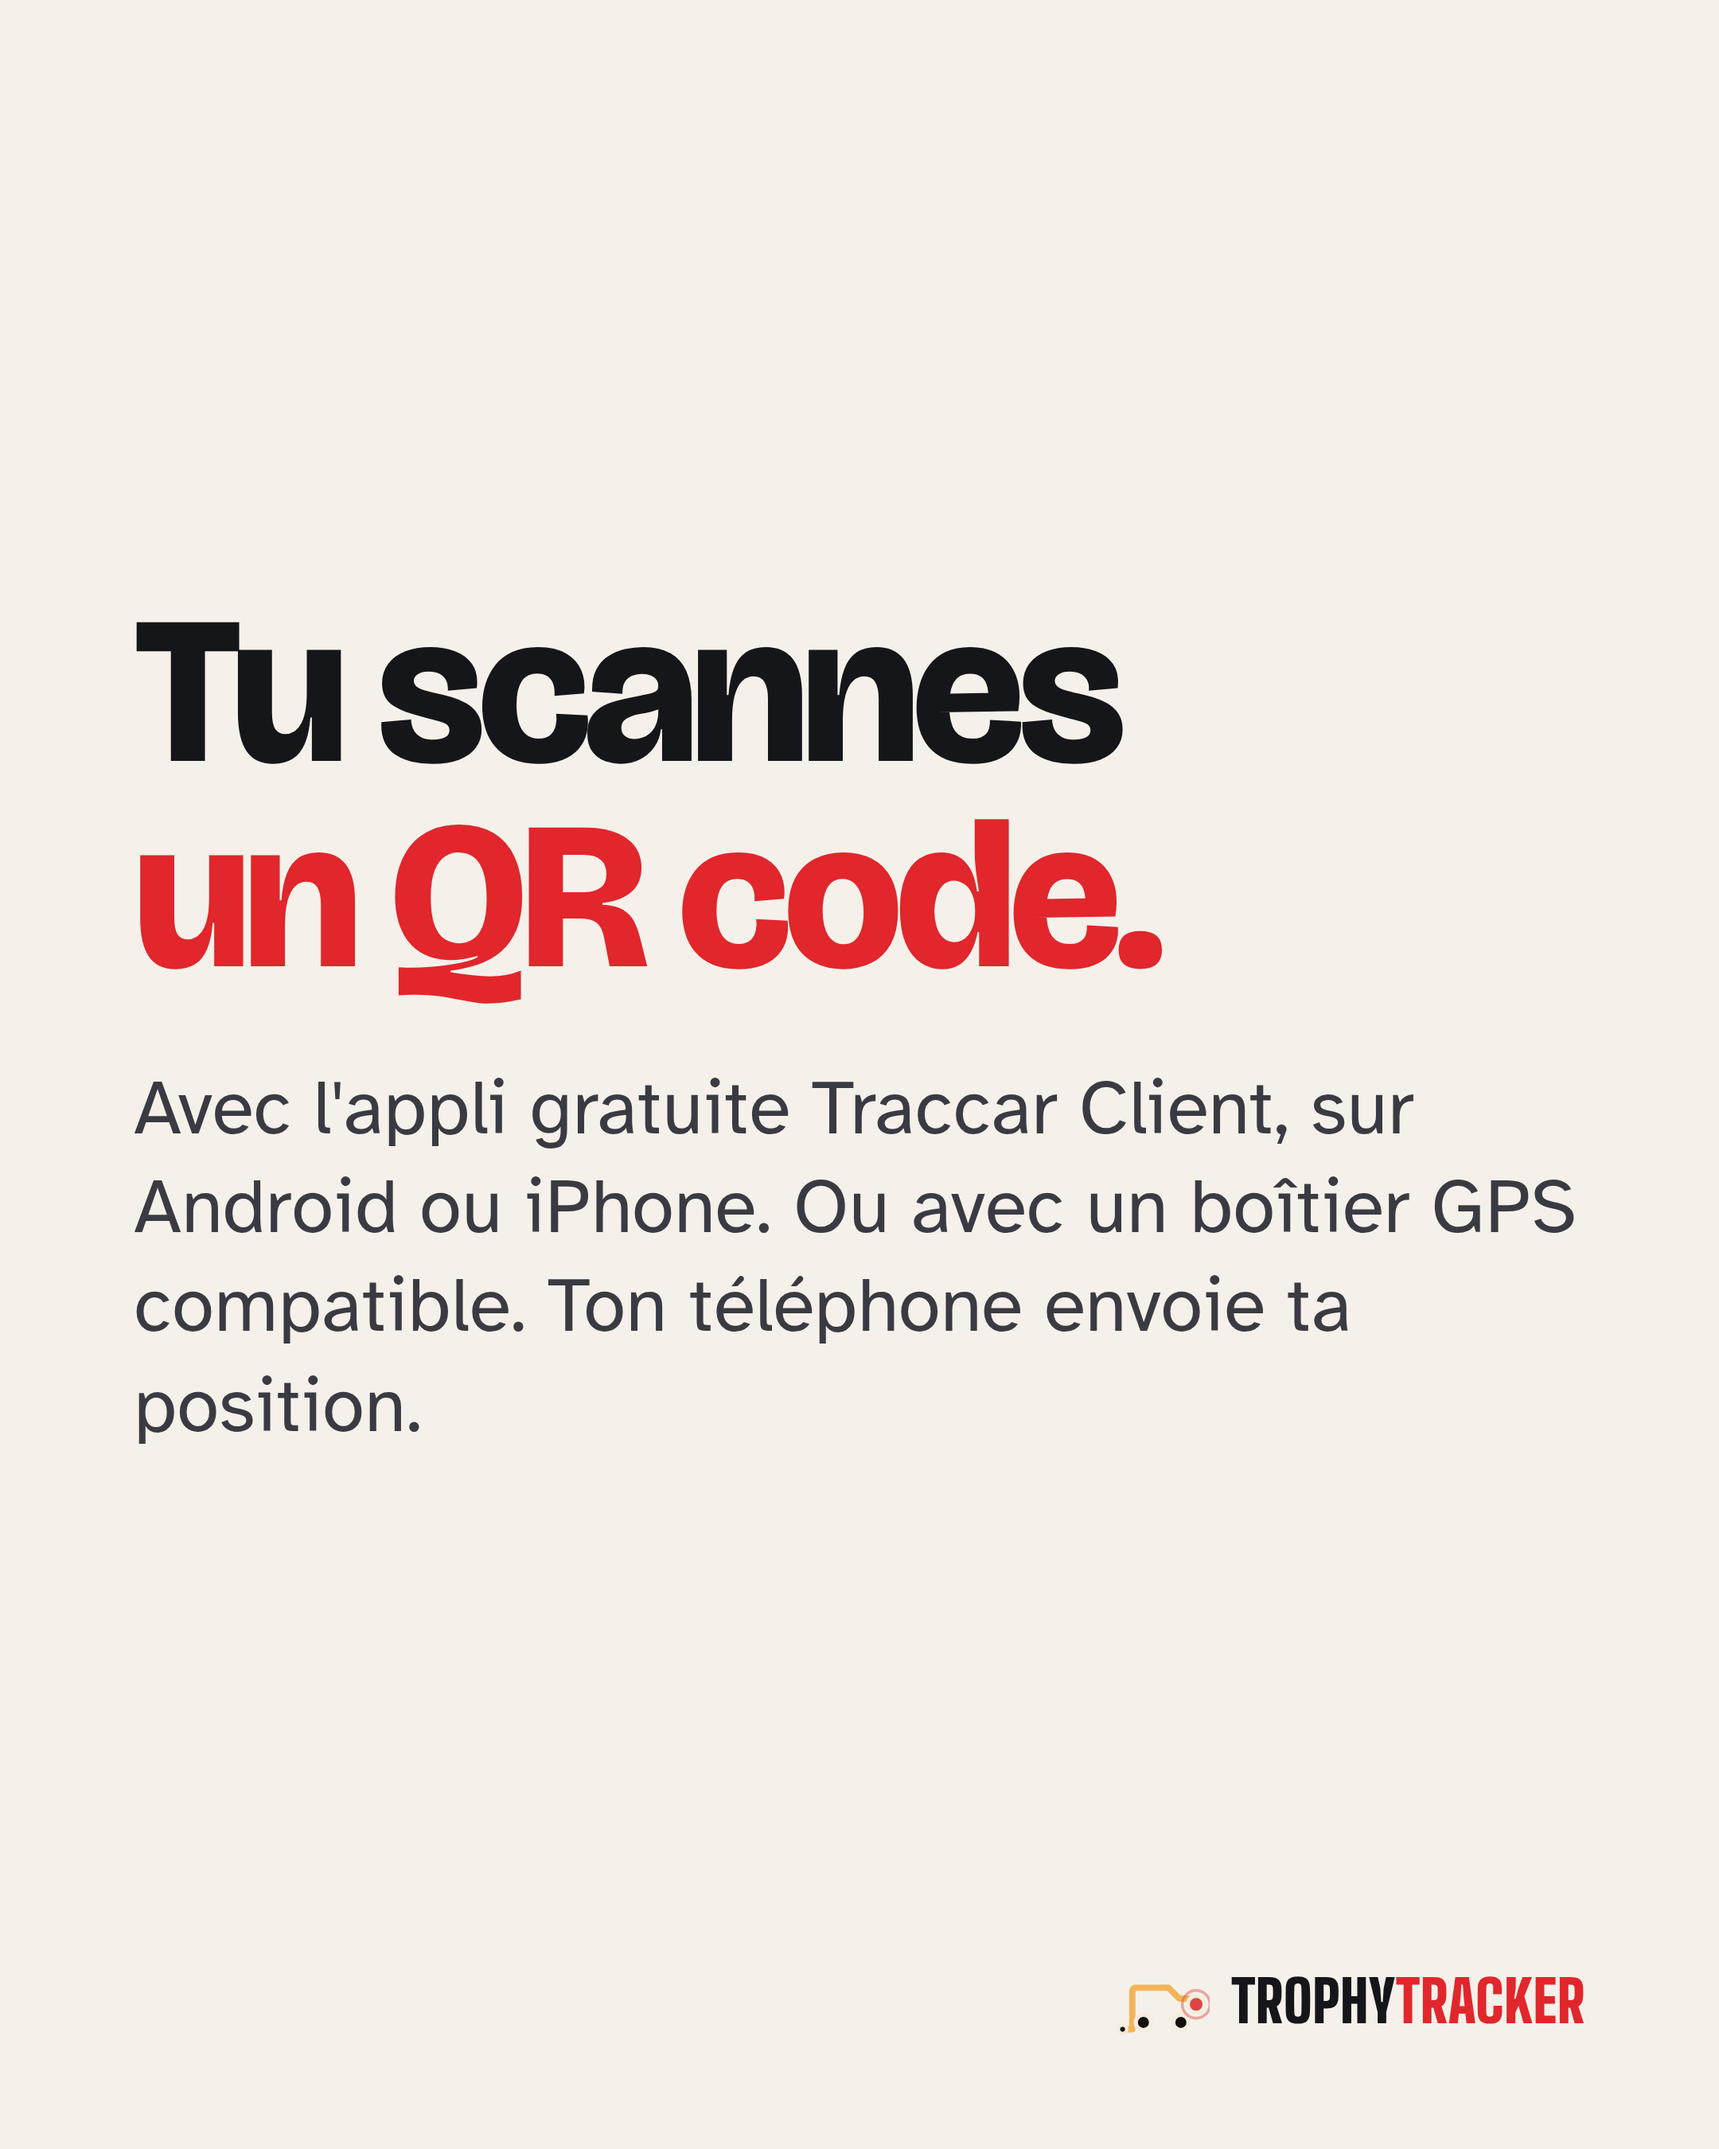
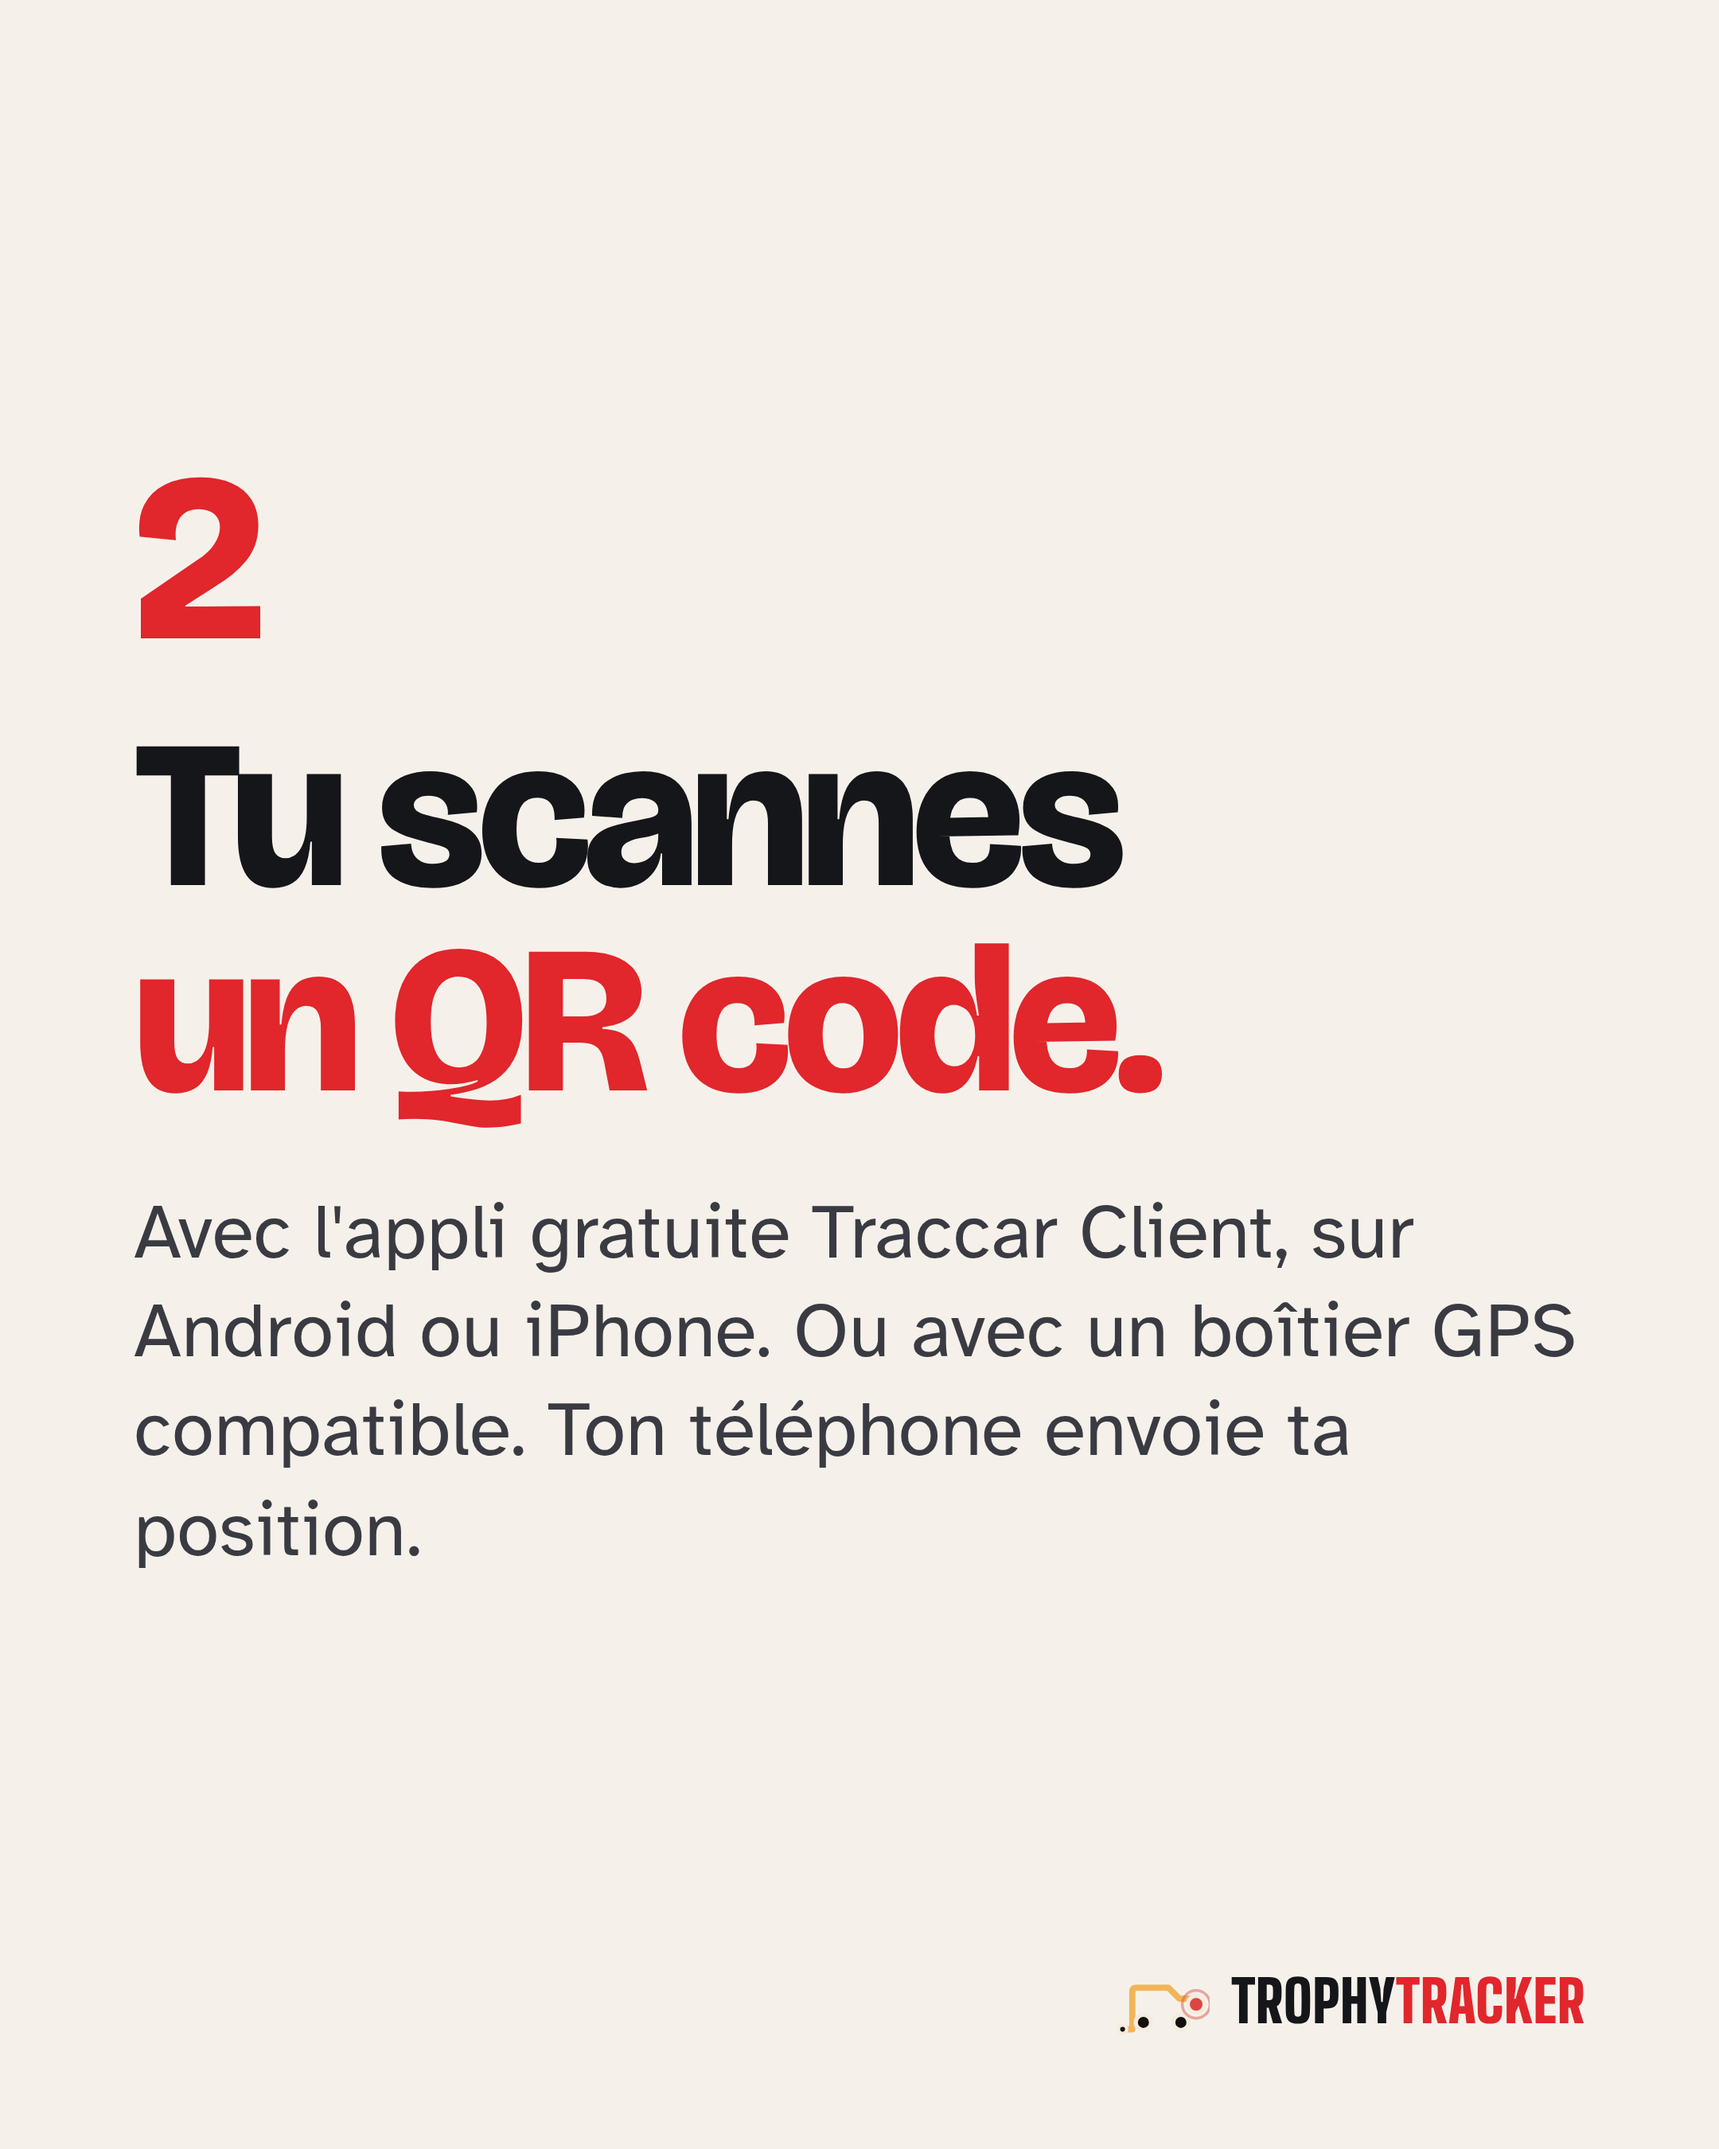
P02 : slide 2 sans photo de fond (fond rouge), numéros d'étape visibles sur les slides typographiques

Changed region(s): [[0.062, 0.2178, 0.9306, 0.7467]]

diff --git a/outils/generateur/render.css b/outils/generateur/render.css
@@ -119,3 +119,4 @@ html,body{background:#15161A}
 .giant{white-space:nowrap}
 .credit{position:absolute;z-index:3;left:84px;bottom:74px;font-size:20px;color:#8e8a83}
 .story .credit{bottom:300px}
+.bg-red .num{color:#15161A}

diff --git a/outils/generateur/render.py b/outils/generateur/render.py
@@ -109,7 +109,7 @@ def T_type(s, story):
     accent = f'<div class="accent">{E(s["accent"])}</div>' if s.get("accent") else ""
     items = "".join(f'<div class="item"><span class="n">{E(n)}</span><div><div class="ih">{E(h)}</div>' + (f'<div class="ib">{E(b)}</div>' if b else "") + "</div></div>" for n, h, b in s.get("items", []))
     if s.get("cols"): items = f'<div class="items2">{items}</div>'
-    inner = (f'<div class="wrap type {s.get("align", "center")} fitbox">{c["pill"]}{c["kicker"]}{giant}{accent}'
+    inner = (f'<div class="wrap type {s.get("align", "center")} fitbox">{c["pill"]}{c["kicker"]}{c["num"]}{giant}{accent}'
              f'{title_html(s.get("title"), s.get("red"))}{c["sub"]}{items}{c["bullets"]}{c["mono"]}{c["reserve"]}{c["swipe"]}</div>')
     return inner, s.get("bg", "ink")
 

diff --git a/outils/generateur/posts.py b/outils/generateur/posts.py
@@ -47,7 +47,7 @@ P(dict(
     remarque="À épingler (2/3).",
     slides=[
         S("type", giant="5 min", accent="pour tout préparer.", sub="Zéro prise de tête. Glisse, c'est 3 étapes.", align="center"),
-        S("photo", img="piquenique", num="1", title=["Tu crées ta page."], red=[],
+        S("type", bg="red", num="1", title=["Tu crées ta page."], red=[],
           sub="Un nom, une photo, tes compagnons de route, d'où à où, quand. L'itinéraire ? Facultatif."),
         S("type", bg="paper", num="2", title=["Tu scannes", "un QR code."],
           sub="Avec l'appli gratuite Traccar Client, sur Android ou iPhone. Ou avec un boîtier GPS compatible. Ton téléphone envoie ta position."),
